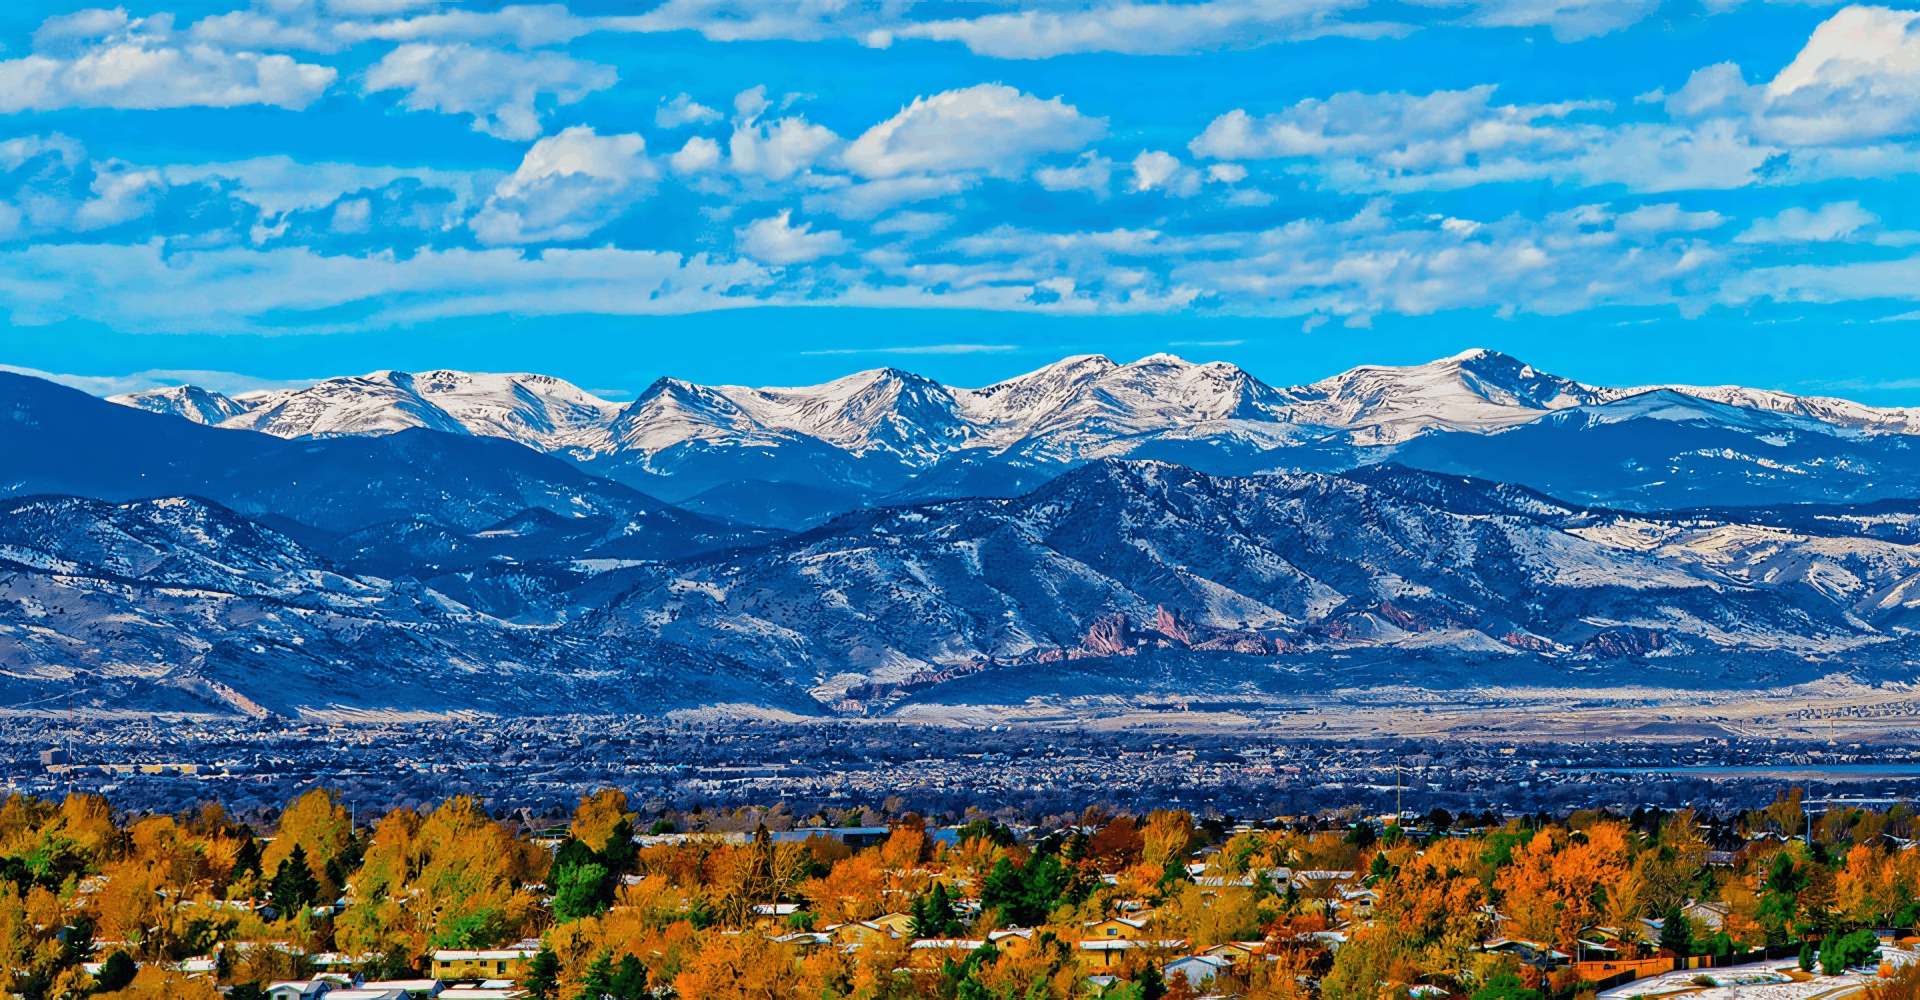
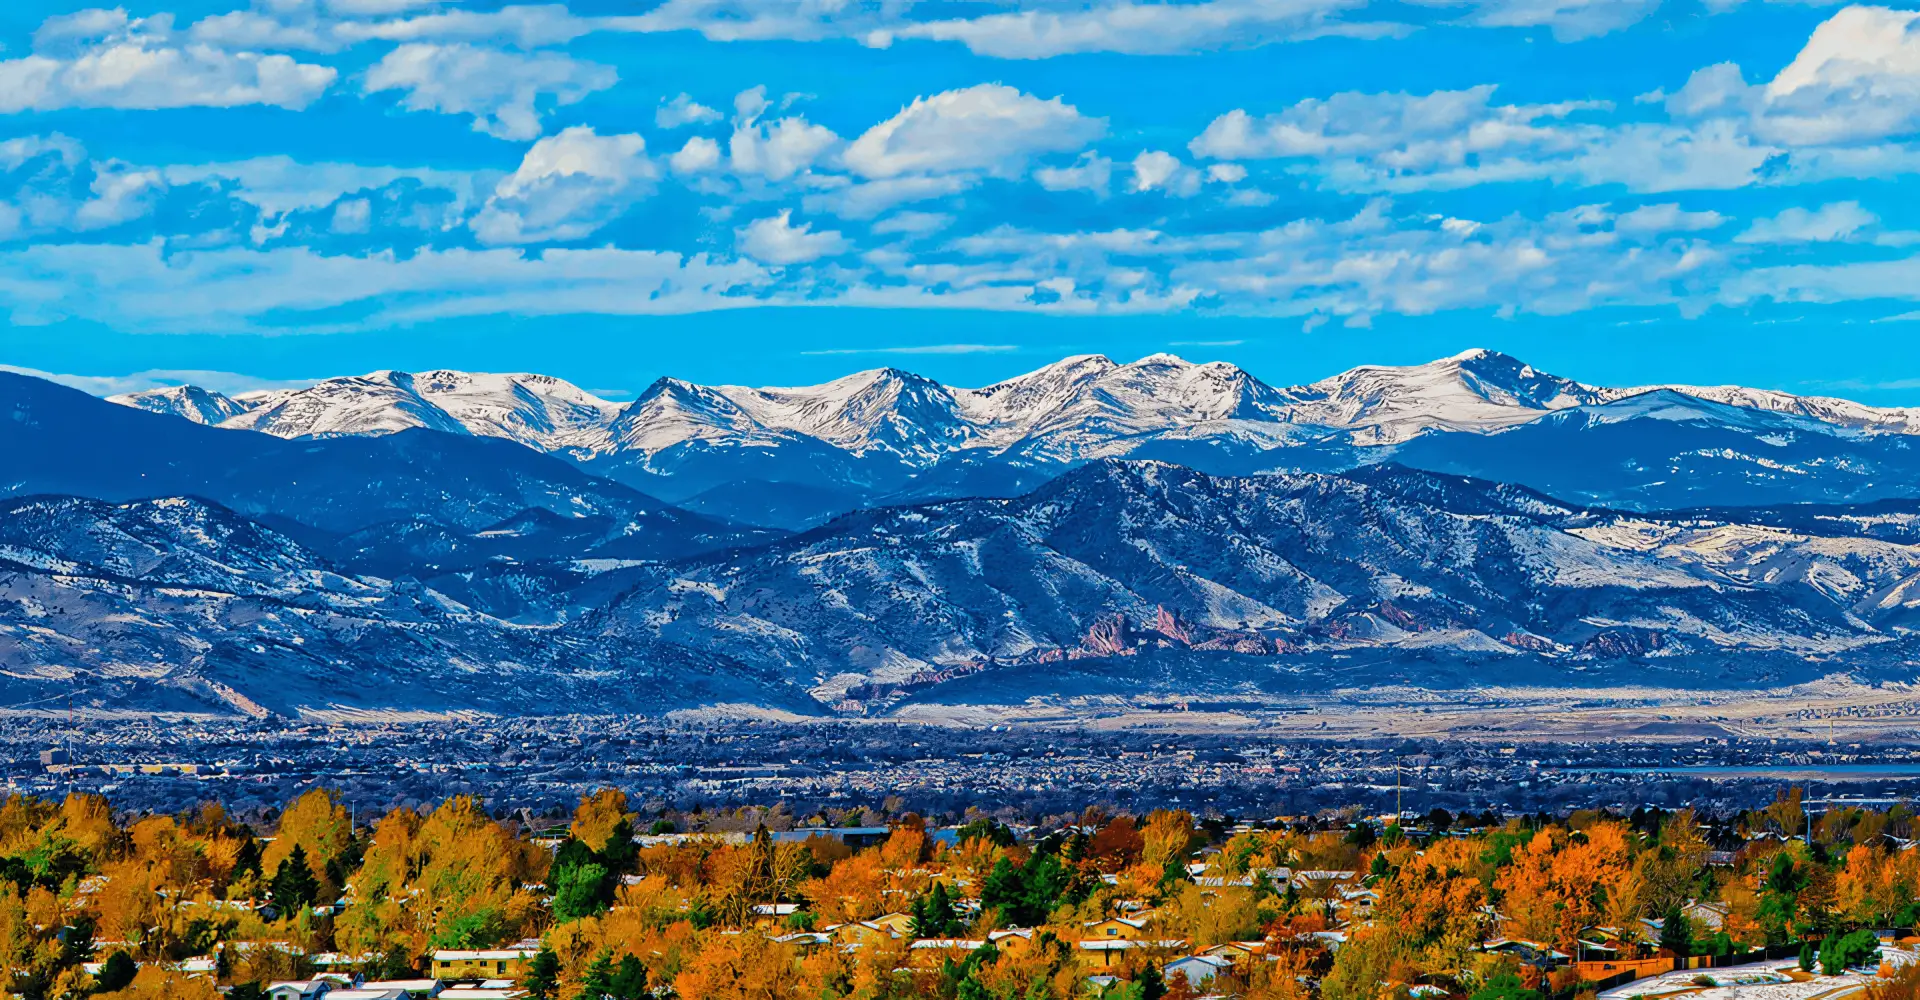
Compressed Hero

diff --git a/src/pages/Home.jsx b/src/pages/Home.jsx
@@ -400,7 +400,7 @@ const handleFormSubmit = async (e) => {
         {/* 2. Hero Content - Centered */}
         <div className="w-full px-6 sm:px-10 md:px-16 lg:px-20 [@media(min-width:1600px)]:px-40 relative z-20 flex-1 flex flex-col min-[1001px]:flex-row items-center justify-center max-w-[2000px] mx-auto py-28 lg:py-0 gap-8 min-[1001px]:gap-12"> 
           
-          {/* Headline (Order 1 everywhere) */}
+          {/* Headline (Order 1) */}
           <div className="w-full min-[1001px]:w-[60%] flex flex-col justify-center text-center min-[1001px]:text-left order-1">
             <div className="max-w-3xl [@media(min-width:1600px)]:max-w-5xl mx-auto min-[1001px]:mx-0">
               <h1 className="text-3xl sm:text-4xl md:text-5xl lg:text-5xl xl:text-6xl [@media(min-width:1600px)]:text-7xl font-extrabold text-white leading-[1.15] mb-0 min-[1001px]:mb-8 tracking-tight drop-shadow-[0_4px_14px_rgba(0,0,0,0.95)]">
@@ -420,7 +420,7 @@ const handleFormSubmit = async (e) => {
             </div>
           </div>
 
-          {/* Anniversary Graphic (Order 2 on mobile, sits above the mobile button) */}
+          {/* Anniversary Graphic (Order 2) */}
           <div className="w-full min-[1001px]:w-[38%] flex justify-center items-center order-2">
             <img 
               src={anniversaryGraphic} 
@@ -430,7 +430,7 @@ const handleFormSubmit = async (e) => {
             />
           </div>
 
-          {/* Mobile Button (Order 3: Displays strictly below badge on <= 1000px, hidden on desktop) */}
+          {/* Mobile Button (Order 3) */}
           <div className="w-full flex min-[1001px]:hidden justify-center items-center order-3 mt-4">
             <button 
               onClick={() => scrollToId('#whatwedo')} 
